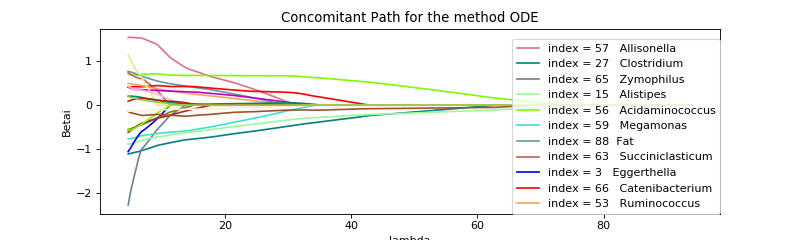
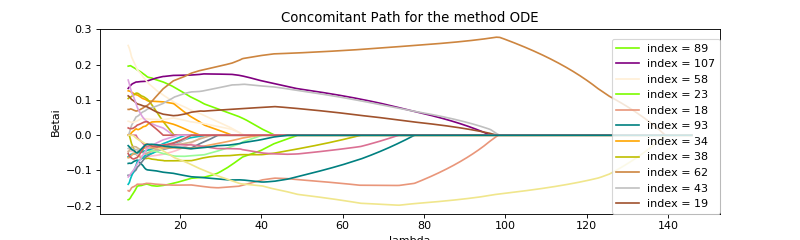
Modification of 14.01.2020

diff --git a/CLasso/solver.py b/CLasso/solver.py
@@ -111,7 +111,7 @@ class classo_problem:
 
                 class CVparameters:
                     def __init__(self):
-                        self.seed = 1
+                        self.seed = None
                         self.formulation = 'not specified'
                         self.numerical_method = 'choose'
                         # can be : '2prox' ; 'ODE' ; 'Noproj' ; 'FB' ; and any other will make the algorithm decide
@@ -133,7 +133,7 @@ class classo_problem:
 
                 class SSparameters:
                     def __init__(self):
-                        self.seed = 1
+                        self.seed = None
                         self.formulation = 'not specified'
                         self.numerical_method = 'choose'
                         # can be : '2prox' ; 'ODE' ; 'Noproj' ; 'FB' ; and any other will make the algorithm decide
@@ -145,7 +145,7 @@ class classo_problem:
                         self.lamin = 1e-2  # the lambda where one stop for 'max' method
                         self.hd = False  # if set to True, then the 'max' will stop when it reaches n-k actives parameters
                         self.lam = 'theoritical'  # can also be a float, for the 'lam' method
-                        self.true_lam = False
+                        self.true_lam = True
                         self.threshold = 0.8
                         self.threshold_label = 0.7
                         self.theoritical_lam = 0.0
@@ -170,7 +170,7 @@ class classo_problem:
                         self.lam = 'theoritical'
                         self.formulation = 'not specified'
                         self.numerical_method = 'choose'
-                        self.true_lam = False
+                        self.true_lam = True
                         self.theoritical_lam = 0.0
                         # can be : '2prox' ; 'ODE' ; 'Noproj' ; 'FB' ; and any other will make the algorithm decide
 

diff --git a/example_PH.py b/example_PH.py
@@ -1,3 +1,24 @@
 from CLasso import *
 import numpy as np
+pH = sio.loadmat('Data/pHData.mat')
+tax = sio.loadmat('Data/taxTablepHData.mat')['None'][0]
+X,Y_uncent, header = pH['X'],pH['Y'].T[0] , pH['__header__']
+y = Y_uncent-np.mean(Y_uncent) # Center Y
+problem = classo_problem(X,y) # zero sum is default C
 
+problem.model_selection.SSparameters.seed = 1
+# Solve the problem for a fixed lambda (by default, it will use the theoritical lambda)
+problem.model_selection.LAMfixed                    = True
+# Solve the stability selection : (by default, it will use the theoritical lambda)
+problem.model_selection.SS                       = True
+problem.model_selection.SSparameters.method      = 'lam'
+problem.model_selection.SSparameters.threshold   = 0.7
+# Solve the entire path
+problem.model_selection.PATH = True
+problem.model_selection.PATHparameters.plot_sigma = True
+
+
+
+problem.solve()
+print(problem)
+print(problem.solution)

diff --git a/CLasso/compact_func.py b/CLasso/compact_func.py
@@ -36,6 +36,7 @@ def Classo(matrix,lam,typ = 'LS', meth='2prox',plot_time=True , plot_sol=True,pl
             beta,s = algo_Concomitant_Huber(pb,lam/pb.lambdamax,e=e)
         else : beta, s = algo_Concomitant_Huber(pb, lam,e=e)
 
+
     elif(typ=='Huber'):
         if not meth in ['ODE','2prox','FB','Noproj','cvx']:
             meth='FB'

diff --git a/example_COMBO.py b/example_COMBO.py
@@ -18,6 +18,7 @@ C = np.ones((1,len(X[0])))
 C[0,-1],C[0,-2],C[0,-3] = 0.,0.,0.
 
 problem = classo_problem(X,y,C, labels=labels)
+
 # Solve the problem for a fixed lambda (by default, it will use the theoritical lambda)
 problem.model_selection.LAMfixed                    = True
 problem.model_selection.LAMfixedparameters.true_lam = True

diff --git a/README.md b/README.md
@@ -227,8 +227,6 @@ problem.model_selection.PATH = False
 problem.solve()
 print(problem)
 print(problem.solution)
-
-
 ```
 
 Results : 
@@ -289,4 +287,61 @@ Running time for Fixed LAM           : 0.035s
 ![Ex3.7](figures_exampleCOMBO/beta_huber.png)
 
 
+Here is now the code of the file "example_pH" which uses microbiome data : 
 
+```python
+from CLasso import *
+import numpy as np
+pH = sio.loadmat('Data/pHData.mat')
+tax = sio.loadmat('Data/taxTablepHData.mat')['None'][0]
+X,Y_uncent, header = pH['X'],pH['Y'].T[0] , pH['__header__']
+y = Y_uncent-np.mean(Y_uncent) # Center Y
+problem = classo_problem(X,y) # zero sum is default C
+
+problem.model_selection.SSparameters.seed = 1
+# Solve the problem for a fixed lambda (by default, it will use the theoritical lambda)
+problem.model_selection.LAMfixed                    = True
+# Solve the stability selection : (by default, it will use the theoritical lambda)
+problem.model_selection.SS                       = True
+problem.model_selection.SSparameters.method      = 'lam'
+problem.model_selection.SSparameters.threshold   = 0.7
+# Solve the entire path
+problem.model_selection.PATH = True
+problem.model_selection.PATHparameters.plot_sigma = True
+
+
+
+problem.solve()
+print(problem)
+print(problem.solution)
+```
+
+
+Results : 
+```
+FORMULATION : Concomitant
+ 
+MODEL SELECTION COMPUTED :  Path,  Stability selection, Lambda fixed
+ 
+STABILITY SELECTION PARAMETERS: method = lam;  lamin = 0.01;  lam = theoritical;  B = 50;  q = 10;  percent_nS = 0.5;  threshold = 0.7;  numerical_method = ODE
+ 
+LAMBDA FIXED PARAMETERS: lam = theoritical;  theoritical_lam = 19.1991;  numerical_method = ODE
+ 
+PATH PARAMETERS: Npath = 500  n_active = False  lamin = 0.05  n_lam = 500;  numerical_method = ODE
+
+
+SIGMA FOR LAMFIXED  :  0.7473015322224758
+SPEEDNESS : 
+Running time for Path computation    : 0.08s
+Running time for Cross Validation    : 'not computed'
+Running time for Stability Selection : 1.374s
+Running time for Fixed LAM           : 0.024s
+```
+
+![Ex4.1](figures_examplePH/Path.png)
+
+![Ex4.2](figures_examplePH/Sigma.png)
+
+![Ex4.3](figures_examplePH/Sselection.png)
+
+![Ex4.4](figures_examplePH/beta.png)
